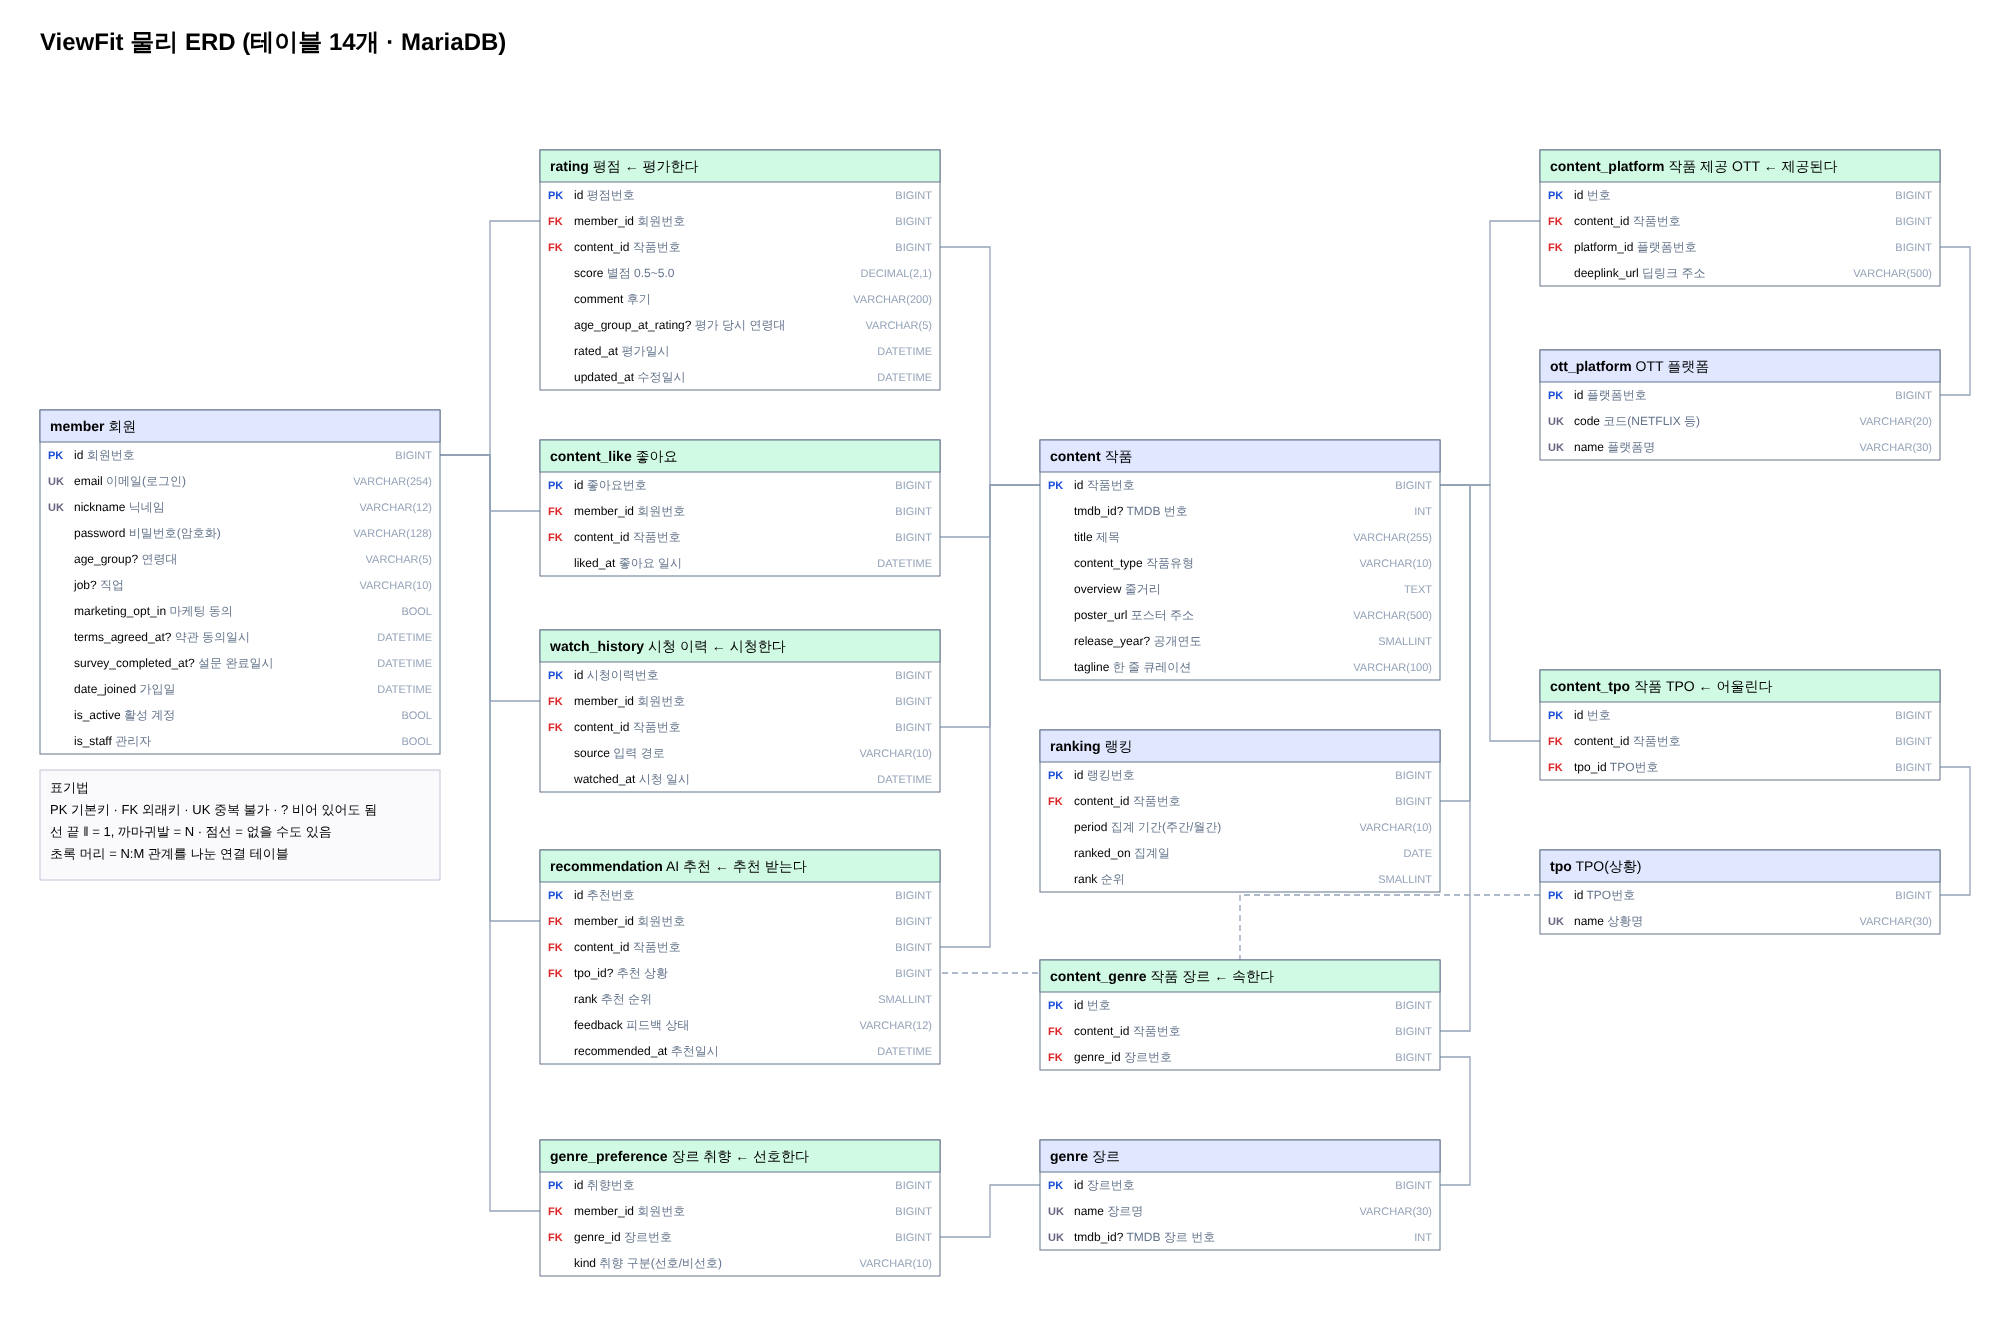
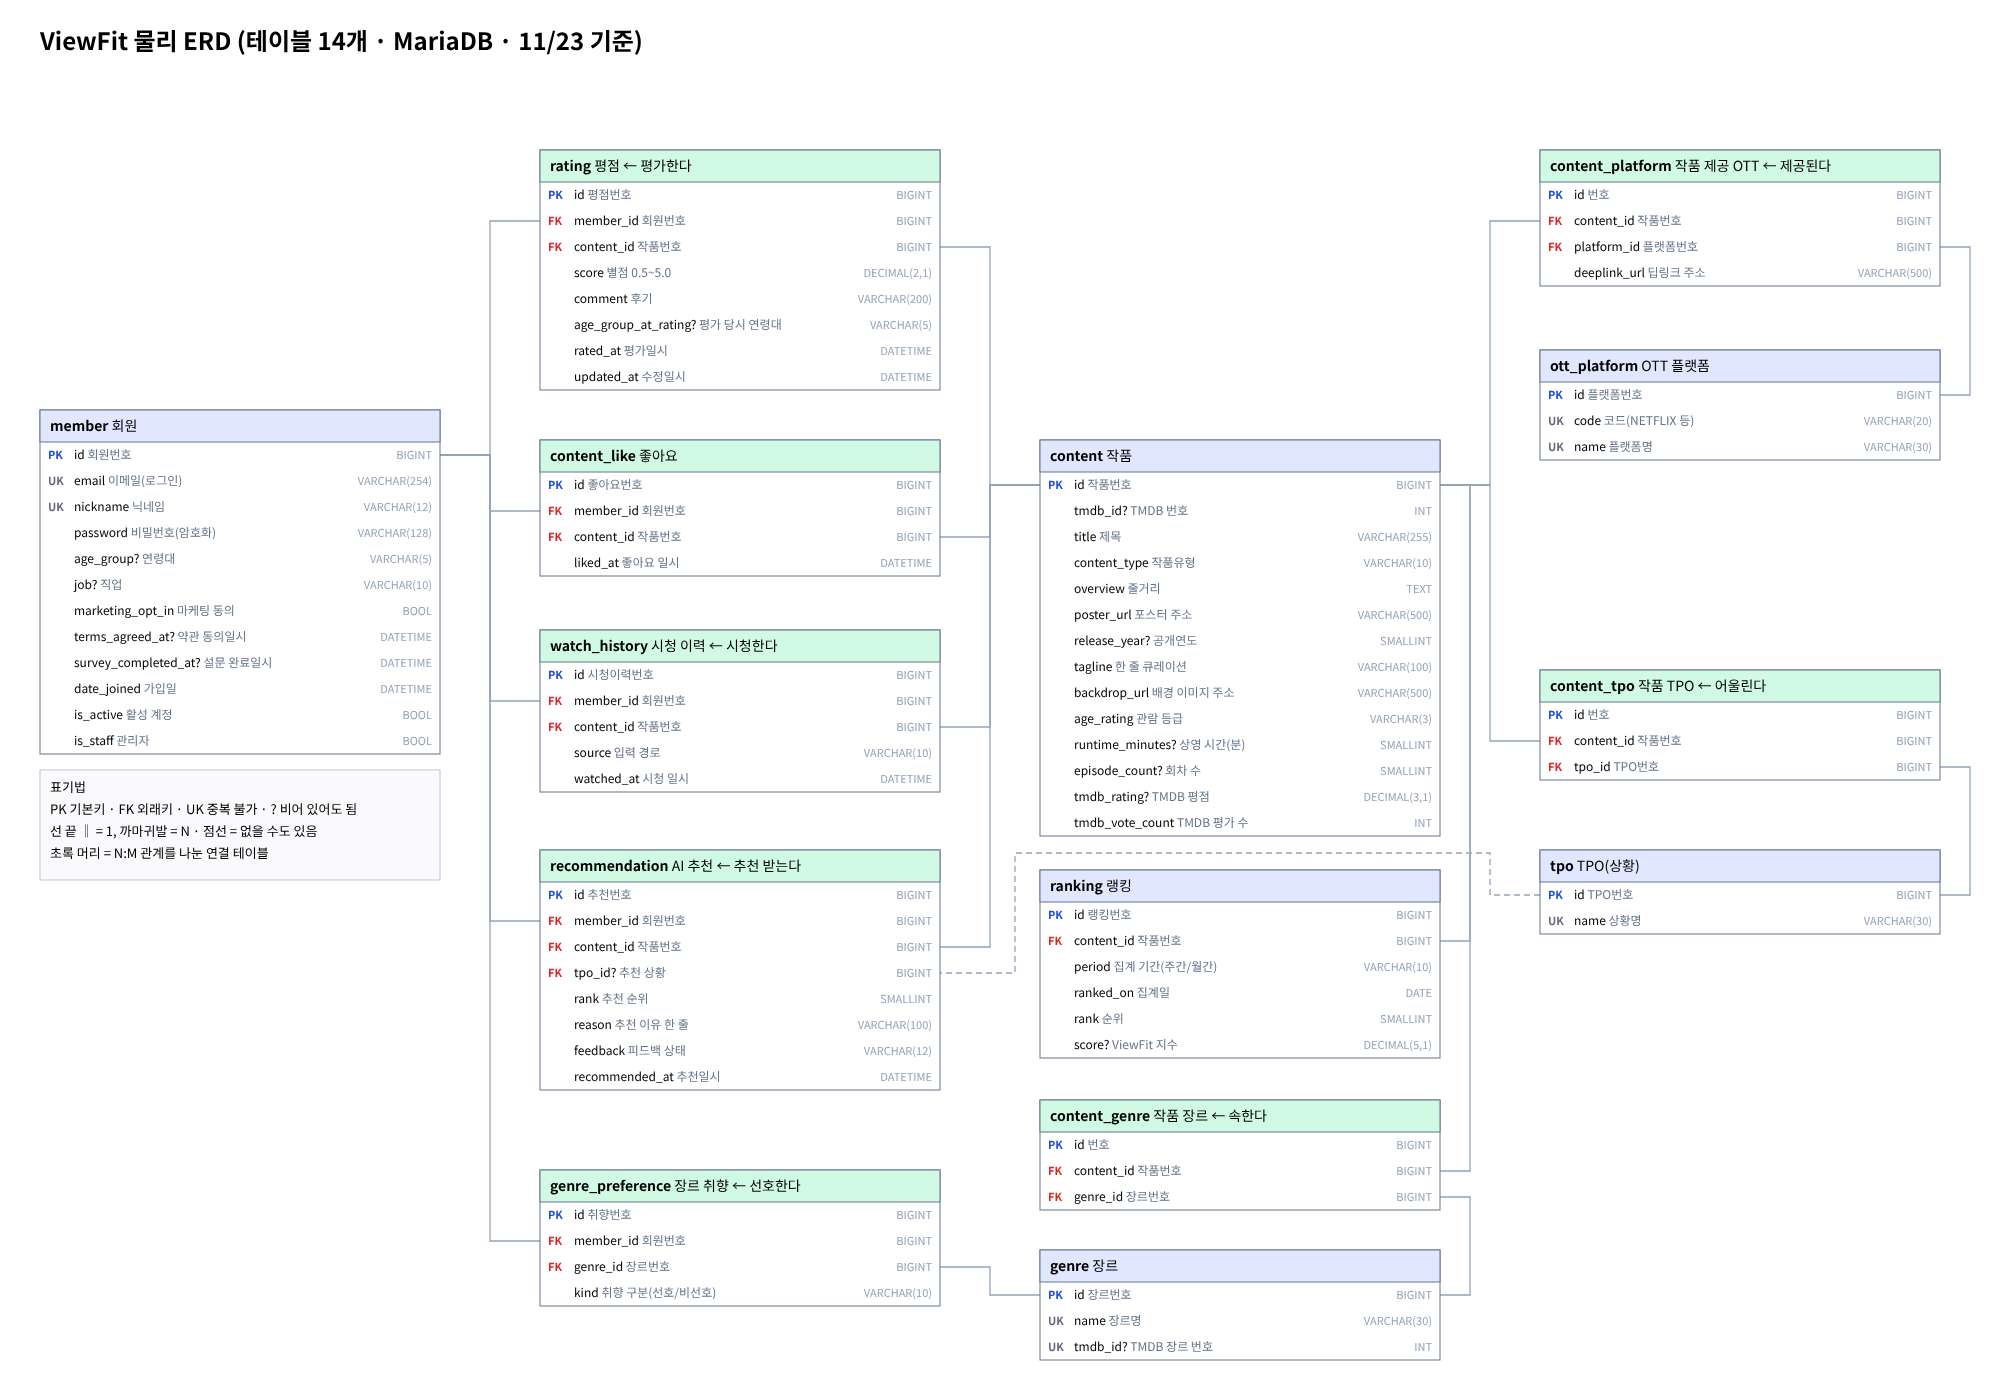
docs(ERD): 물리 ERD 그림에 11/17 이후 칸 8개 반영, TPO 관계선 경로 수정
content 6칸(D6)·ranking.score(D7)·recommendation.reason(7-1)
요청: 정준교

Claude-Session: https://claude.ai/code/session_01AGHPrWPVMewxqzuUC2ocdc

diff --git a/docs/WORKLOG.md b/docs/WORKLOG.md
@@ -8,6 +8,11 @@
 > 11/21 이전 항목은 GitHub 커밋 기록으로 정리했습니다. 커밋에 요청한 사람이 적혀 있지 않은 것은 "요청: 기록 없음"으로 두었습니다 — 본인 작업이면 이름을 채워 주세요.
 
 ---
+### 11/23 · 물리 ERD 그림을 지금 DB와 맞춤 · 요청: 정준교
+- 한 일: `docs/erd/ViewFit_ERD_physical_preview.png`·`.drawio` 에 11/17 이후 추가된 칸 8개 반영 — content 6칸(D6), ranking.score(D7), recommendation.reason(7-1). recommendation → tpo 점선이 ranking 표 뒤로 지나가 "랭킹–상황 관계"처럼 보이던 것 고침. ERD 문서 ⑦ 표에 reason 추가
+- 확인: models.py 14개 테이블·칸과 그림 대조
+- 남은 일·주의: 노션 발표 자료의 ERD 이미지는 이 새 그림으로 바꿔야 함
+
 ### 11/23 · 11/24 중간 발표 자료 · 요청: 정준교
 - 한 일: 노션 가져오기용 발표 자료 `docs/presentation/ViewFit 중간 발표.md` + 실행 화면 8장(`docs/presentation/images/`) + 가져오기용 zip. 개발 환경·프로그램 목록표(진도율)·주차 보고서·PRD 예시·실행 결과·GitHub·남은 일정·예상 질문
 - 커밋: `eab3ae6`
